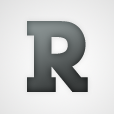
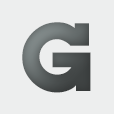
Add grunterie stuff
Replaced images and updated theme info

Changed region(s): [[0.1842, 0.1842, 0.8158, 0.8158]]

diff --git a/style.css b/style.css
@@ -1,10 +1,10 @@
 /*
-Theme Name:         Reverie
-Theme URI:          http://themefortress.com/reverie/
-Description:        Reverie is a versatile HTML5 responsive WordPress framework based on ZURB's Foundation.
+Theme Name:         Grunterie
+Theme URI:          https://github.com/gpspake/grunterie
+Description:        Grunterie is a Gruntified version of Reverie by Zhen Huang, a versatile HTML5 responsive WordPress framework based on ZURB's Foundation.
 Version:            5.0.0
-Author:             Zhen Huang
-Author URI:         http://themefortress.com/
+Author:             George Spake
+Author URI:         http://georgespake.com/
 
 License:            MIT License
 License URI:        http://www.opensource.org/licenses/mit-license.php
